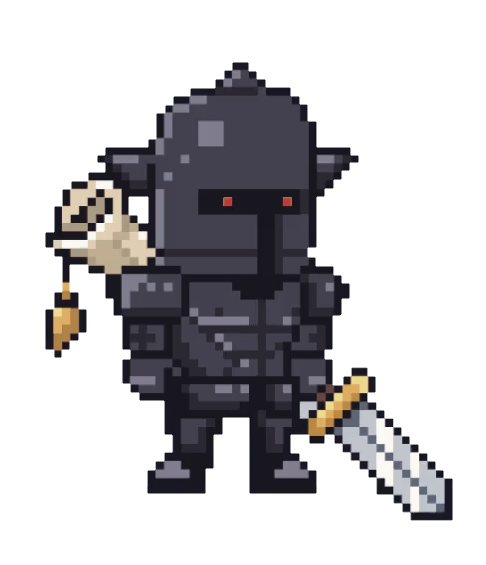
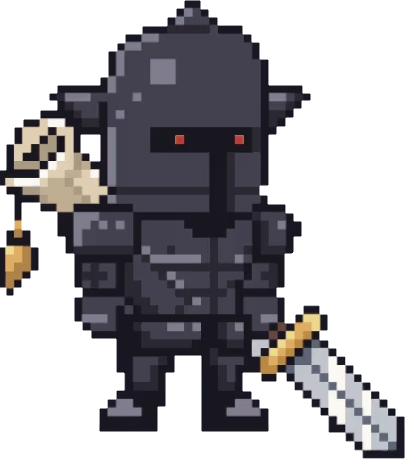
heroe's pic repositioned on gameUC

diff --git a/GUI_20212022_Z6O9JF/UserControls/GameUC.xaml b/GUI_20212022_Z6O9JF/UserControls/GameUC.xaml
@@ -42,22 +42,6 @@
         <Grid x:Name="grid" Grid.Row="0" Grid.Column="0" Grid.RowSpan="4" Grid.ColumnSpan="3" >
             <renderer:Display x:Name="display"/>
         </Grid>
-        <StackPanel Grid.Row="2">
-            <Viewbox>
-                <Label Content="{Binding Hero1.Name}" FontFamily="\Resources\#8-bit Limit (BRK)" FontSize="20"/>
-            </Viewbox>
-            <Viewbox>
-                <Image Source="{Binding Hero1, Converter={StaticResource firstheroconverter}}" Width="100"/>
-            </Viewbox>
-        </StackPanel>
-        <StackPanel Grid.Row="2" Grid.Column="2">
-            <Viewbox>
-                <Label Content="{Binding Hero2.Name}" FontFamily="\Resources\#8-bit Limit (BRK)" FontSize="20"/>
-            </Viewbox>
-            <Viewbox>
-                <Image Grid.Column="2" Source="{Binding Hero2, Converter={StaticResource secondaryheroconverter}}" Width="100"/>
-            </Viewbox>
-        </StackPanel>
         <Grid Grid.Row="0" Grid.ColumnSpan="3" >
             <Grid.ColumnDefinitions>
                 <ColumnDefinition Width="1*"/>
@@ -201,6 +185,52 @@
                 <Label x:Name="FoodChangeLabel" Height="63" Width="100" FontSize="30" FontFamily="\Resources\#8-bit Limit (BRK)" FontWeight="Bold" HorizontalContentAlignment="Left" Grid.ColumnSpan="3"/>
             </Viewbox>
         </Grid>
+        <Label x:Name="lbl_hero" Content="Heroes" FontFamily="\Resources\#8-bit Limit (BRK)" HorizontalContentAlignment="Center" FontSize="40" Grid.Row="2" VerticalContentAlignment="Bottom"/>
+        <Grid Grid.Row="3">
+            <Grid.ColumnDefinitions>
+                <ColumnDefinition Width="1*"/>
+                <ColumnDefinition Width="1*"/>
+            </Grid.ColumnDefinitions>
+            <Viewbox Grid.ColumnSpan="2" Stretch="Fill" x:Name="hero_viewbox">
+                <Image Source="\Resources\Images\Menu\brick_border.png"/>
+            </Viewbox>
+            <Viewbox Grid.Column="0" Margin="10" Stretch="Fill">
+                <Image Source="{Binding Hero1, Converter={StaticResource firstheroconverter}}" Width="100">
+                    <Image.ToolTip>
+                        <TextBlock Text="{Binding Hero1Hover}" Foreground="Black" FontSize="30" Background="Beige" FontFamily="\Resources\#8-bit Limit (BRK)"/>
+                    </Image.ToolTip>
+                </Image>
+            </Viewbox>
+            <Viewbox Grid.Column="1" Margin="10" Stretch="Fill">
+                <Image Source="{Binding Hero2, Converter={StaticResource secondaryheroconverter}}" Width="100" >
+                    <Image.ToolTip>
+                        <TextBlock Text="{Binding Hero2Hover}" Foreground="Black" FontSize="30" Background="Beige" FontFamily="\Resources\#8-bit Limit (BRK)"/>
+                    </Image.ToolTip>
+                </Image>
+            </Viewbox>
+        </Grid>
+        <!--<StackPanel Grid.Row="2">
+            <Viewbox>
+                <Image Source="\Resources\Images\Menu\brick_border_vertical.png"></Image>
+            </Viewbox>
+            <Viewbox>
+                <Label Content="{Binding Hero1.Name}" FontFamily="\Resources\#8-bit Limit (BRK)" FontSize="20"/>
+            </Viewbox>
+            <Viewbox>
+                <Image Source="{Binding Hero1, Converter={StaticResource firstheroconverter}}" Width="100"/>
+            </Viewbox>
+        </StackPanel>-->
+        <!--<StackPanel Grid.Row="2" Grid.Column="2">
+            <Viewbox>
+                <Image Source="\Resources\Images\Menu\brick_border_vertical.png"></Image>
+            </Viewbox>
+            <Viewbox>
+                <Label Content="{Binding Hero2.Name}" FontFamily="\Resources\#8-bit Limit (BRK)" FontSize="20"/>
+            </Viewbox>
+            <Viewbox>
+                <Image Grid.Column="2" Source="{Binding Hero2, Converter={StaticResource secondaryheroconverter}}" Width="100"/>
+            </Viewbox>
+        </StackPanel>-->
         <Grid Grid.Row="3" Grid.Column="1">
             <Grid.ColumnDefinitions>
                 <ColumnDefinition Width="1*"/>
@@ -221,7 +251,7 @@
                     <Image Source="\Resources\Images\Menu\move_background.png" Margin="10,0,10,0" />
                 </Viewbox>
                 <Viewbox Grid.Column="0">
-                    <Button HorizontalAlignment="Left" Style="{StaticResource button_image_style}" Command="{Binding AddUnitCommand}" Height="80" Width="130" Grid.Column="0" Margin="10,0,0,0" >
+                    <Button HorizontalAlignment="Left" Style="{StaticResource button_image_style}" Command="{Binding MoveUnitCommand}" Height="80" Width="130" Grid.Column="0" Margin="10,0,0,0" >
                         <TextBlock x:Name="txt_move" Text="Move" FontFamily="\Resources\#8-bit Limit (BRK)" FontSize="50" Foreground="{StaticResource greenish_blue}" >
                             <TextBlock.Effect>
                                 <DropShadowEffect ShadowDepth="0" Color="Black" Opacity="1" BlurRadius="20"/>
@@ -309,7 +339,7 @@
                 </Button>
             </Viewbox>
         </Grid>
-        <Grid Grid.Row="3" Grid.Column="0">
+        <Grid Grid.Row="1" Grid.Column="2">
             <Grid.ColumnDefinitions>
                 <ColumnDefinition Width="1*"/>
                 <ColumnDefinition Width="1*"/>

diff --git a/GUI_20212022_Z6O9JF/Logic/GameLogic.cs b/GUI_20212022_Z6O9JF/Logic/GameLogic.cs
@@ -791,6 +791,7 @@ namespace GUI_20212022_Z6O9JF.Logic
         public void AddUnit()
         {
             var player = Players.Where(t => t.PlayerID == ClientID).FirstOrDefault();
+            player.TurnActivity = TurnActivity.Move;
             if (SelectedHexagonTile != null)
             {
                 if (SelectedHexagonTile.OwnerId == ClientID && SelectedHexagonTile.Objects.Where(t => t.CanMove == false).ToList().Count > 0)
@@ -814,6 +815,7 @@ namespace GUI_20212022_Z6O9JF.Logic
         public void AddVillage()
         {
             var player = Players.Where(t => t.PlayerID == ClientID).FirstOrDefault();
+            player.TurnActivity = TurnActivity.Build;
             if (SelectedHexagonTile != null && SelectedHexagonTile.FieldType == FieldType.grass
                 && SelectedHexagonTile.Objects.Where(t => t.CanMove == false).ToList().Count == 0)
             {
@@ -841,6 +843,7 @@ namespace GUI_20212022_Z6O9JF.Logic
         public void UpgradeVillage()
         {
             var player = Players.Where(t => t.PlayerID == ClientID).FirstOrDefault();
+            player.TurnActivity = TurnActivity.Upgrade;
             if (SelectedHexagonTile != null)
             {
                 if ((SelectedHexagonTile.OwnerId == ClientID || SelectedHexagonTile.OwnerId == 0)
@@ -954,6 +957,7 @@ namespace GUI_20212022_Z6O9JF.Logic
         public void GetResources()
         {
             var player = Players.Where(t => t.PlayerID == ClientID).FirstOrDefault();
+            player.TurnActivity = TurnActivity.Harvest;
             bool success = false;
             if (player != null && player.RemainingMoves != 0)
             {

diff --git a/GUI_20212022_Z6O9JF/ViewModels/GameViewModel.cs b/GUI_20212022_Z6O9JF/ViewModels/GameViewModel.cs
@@ -21,7 +21,7 @@ namespace GUI_20212022_Z6O9JF.ViewModels
         public IGameLogic gameLogic { get; set; }
         public IClientLogic clientLogic { get; set; }
         public IControlLogic controlLogic { get; set; }
-        public ICommand AddUnitCommand { get; set; }
+        public ICommand MoveUnitCommand { get; set; }
         public ICommand AddVillageCommand { get; set; }
         public ICommand UpgradeVillageCommand { get; set; }
         public ICommand SkipTurnCommand { get; set; }
@@ -56,6 +56,8 @@ namespace GUI_20212022_Z6O9JF.ViewModels
                 }
             } 
         }
+        public string Hero1Hover { get { return $"{Hero1.Name} : {Hero1.Damage} dmg"; } }
+        public string Hero2Hover { get { return $"{Hero2.Name} : {Hero2.Damage} dmg"; } }
 
         public int Timer { get { return clientLogic.Timer; } }
         public bool CanSend { get { return clientLogic.CanSend; } }
@@ -85,7 +87,7 @@ namespace GUI_20212022_Z6O9JF.ViewModels
             this.gameLogic = gameLogic;
             this.clientLogic = clientLogic;
 
-            AddUnitCommand = new RelayCommand(() => gameLogic.AddUnit());
+            MoveUnitCommand = new RelayCommand(() => gameLogic.AddUnit());
             AddVillageCommand = new RelayCommand(() => gameLogic.AddVillage());
             UpgradeVillageCommand = new RelayCommand(() => gameLogic.UpgradeVillage());
             SkipTurnCommand = new RelayCommand(() => clientLogic.SkipTurn());

diff --git a/GUI_20212022_Z6O9JF/Models/Player.cs b/GUI_20212022_Z6O9JF/Models/Player.cs
@@ -4,13 +4,13 @@ using System.Collections.ObjectModel;
 namespace GUI_20212022_Z6O9JF.Models
 {
     public enum Faction { Viking, Crusader, Mongolian, Arabian }
-    public enum Activity {Init, Move, Build, Upgrade, Farm }
+    public enum TurnActivity {Init, Move, Build, Upgrade, Harvest }
     public class Player
     {
         public int PlayerID { get; set; }
         public string Name { get; set; }
         public Faction Faction { get; set; }
-        public Activity Activity { get; set; }
+        public TurnActivity TurnActivity { get; set; }
         public bool GoldMine { get; set; }
         public bool HasEnteredGoldMine { get; set; }
         public int DefaultNumOfMoves { get; set; }
@@ -133,7 +133,7 @@ namespace GUI_20212022_Z6O9JF.Models
             Quests = new List<Quest>();
             //QuestsDone = 0;
             Villages = new List<Village>();
-            Activity = Activity.Init;
+            TurnActivity = TurnActivity.Init;
             ResourceChanges = new ObservableCollection<int>();
             for (int i = 0; i < 6; i++) ResourceChanges.Add(0);
 

diff --git a/GUI_20212022_Z6O9JF/ViewModels/BattleViewModel.cs b/GUI_20212022_Z6O9JF/ViewModels/BattleViewModel.cs
@@ -52,7 +52,14 @@ namespace GUI_20212022_Z6O9JF.ViewModels
             
             NextNumber = new RelayCommand(() =>
             {
-                index++;
+                if (index < PlayerMaxArmyPower)
+                {
+                    index++;
+                }
+                else
+                {
+                    index = 0;
+                }
                 OnPropertyChanged("SelectedNumber");
             });
             PreviousNumber = new RelayCommand(() =>
@@ -63,7 +70,7 @@ namespace GUI_20212022_Z6O9JF.ViewModels
                 }
                 else
                 {
-                    index = gameLogic.AvailableFactions.Count - 1;
+                    index = PlayerMaxArmyPower;
                 }
                 OnPropertyChanged("SelectedNumber");
             });
